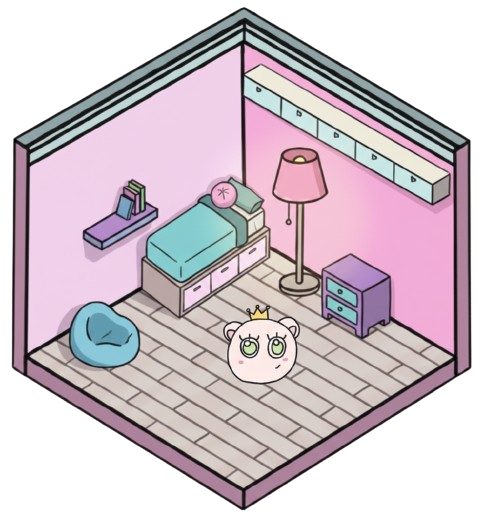
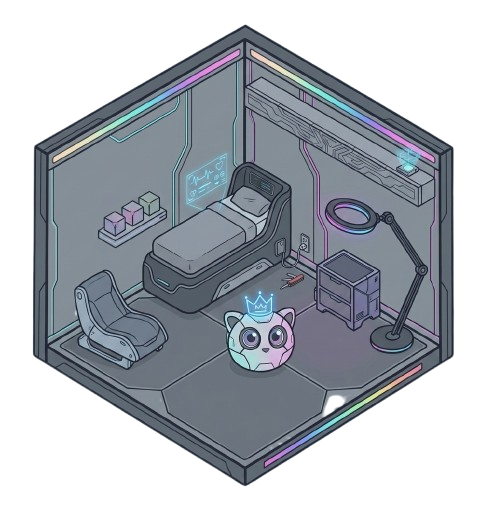
Art temporal nova web

diff --git a/BitSpace_Web/src/components/views/How.vue b/BitSpace_Web/src/components/views/How.vue
@@ -12,28 +12,28 @@
                 <div class="step-card animate-on-scroll">
                     <div class="step-num">1</div>
                     <h3>Adopta el teu Bit</h3>
-                    <span class="step-icon"><img class="step-mascot" :src="stepMascot"
+                    <span class="step-icon"><img class="step-mascot" :src="Bit_adopta"
                             alt="Mascota de BitSpace" /></span>
                     <p>Posa-li nom i crea un vincle emocional des del primer moment.</p>
                 </div>
                 <div class="step-card animate-on-scroll">
                     <div class="step-num">2</div>
                     <h3>Escull el teu camí</h3>
-                    <span class="step-icon"><img class="step-mascot" :src="stepMascot"
+                    <span class="step-icon"><img class="step-mascot" :src="Bit_escull"
                             alt="Mascota de BitSpace" /></span>
                     <p>Decideix el camí de millora que vols emprendre. Digital Detox, Esport, Lectura o Estudi.</p>
                 </div>
                 <div class="step-card animate-on-scroll">
                     <div class="step-num">3</div>
                     <h3>Completa reptes diaris</h3>
-                    <span class="step-icon"><img class="step-mascot" :src="stepMascot"
+                    <span class="step-icon"><img class="step-mascot" :src="Bit_completa"
                             alt="Mascota de BitSpace" /></span>
                     <p>Completa Micro-reptes creats només per a tu. Senzills, motivadors i útils.</p>
                 </div>
                 <div class="step-card animate-on-scroll">
                     <div class="step-num">4</div>
                     <h3>Decora el teu BitSpace</h3>
-                    <span class="step-icon"><img class="step-mascot" :src="stepMascot"
+                    <span class="step-icon"><img class="step-mascot" :src="Bit_decora"
                             alt="Mascota de BitSpace" /></span>
                     <p>Guanya monedes, desbloqueja objectes i construeix l'habitació dels somnis del teu Bit.</p>
                 </div>
@@ -45,7 +45,11 @@
 <script setup>
 import { onBeforeUnmount, onMounted } from 'vue'
 
-import stepMascot from '@/assets/images/Bit_8.png'
+import stepMascot from '@/assets/images/Bits_Background/Bit_8.png'
+import Bit_adopta from '@/assets/images/Bits_Background/Bit_25.png'
+import Bit_escull from '@/assets/images/Bits_Background/Bit_11.png'
+import Bit_completa from '@/assets/images/Bits_Background/Bit_18.png'
+import Bit_decora from '@/assets/images/Bits_Background/Bit_19.png'
 
 let observer
 
@@ -199,7 +203,7 @@ onBeforeUnmount(() => {
 
 .step-mascot {
     max-width: 150px;
-    max-height: 200px;
+    max-height: 120px;
     object-fit: contain;
     margin: 0 auto;
 }

diff --git a/BitSpace_Web/src/components/views/NavBar.vue b/BitSpace_Web/src/components/views/NavBar.vue
@@ -1,7 +1,9 @@
 <template>
     <nav ref="navbarRef" :class="{ scrolled: isScrolled }" aria-label="Navegacio principal">
         <div class="nav-logo">
-            <div class="logo-blob">🌟</div>
+            <div class="logo-blob">
+                <img :src="BitPrincesa" alt="Bit logo" />
+            </div>
             BitSpace
         </div>
 
@@ -24,6 +26,7 @@
 
 <script setup>
 import { onBeforeUnmount, onMounted, ref } from 'vue'
+import BitPrincesa from '@/assets/images/Bits_Background/Bit_18.png'
 
 const navbarRef = ref(null)
 const isScrolled = ref(false)
@@ -105,7 +108,7 @@ onBeforeUnmount(() => {
     }
 
     50% {
-        transform: translateY(-18px) rotate(2deg);
+        transform: translateY(-8px) rotate(2deg);
     }
 }
 
@@ -151,6 +154,14 @@ nav.scrolled {
     justify-content: center;
     font-size: 1rem;
     animation: blob-float 4s ease-in-out infinite;
+}
+
+.nav-logo .logo-blob img {
+    width: 80%;
+    height: 80%;
+    object-fit: contain;
+    border-radius: 50%;
+    display: block;
 }
 
 .nav-links {

diff --git a/BitSpace_Web/src/components/views/Hero.vue b/BitSpace_Web/src/components/views/Hero.vue
@@ -97,7 +97,7 @@
 <script setup>
 import { computed, onBeforeUnmount, onMounted, ref } from 'vue'
 
-const heroMascot = new URL('../../assets/images/Bit_8.png', import.meta.url).href
+const heroMascot = new URL('../../assets/images/Bits_Background/Bit_25.png', import.meta.url).href
 const reviewAvatar1 = new URL('../../assets/images/Web_icons/Review_person_1.png', import.meta.url).href
 const reviewAvatar2 = new URL('../../assets/images/Web_icons/Review_person_2.png', import.meta.url).href
 const prototypeLink = 'https://prototype.bitspace.es/ca'
